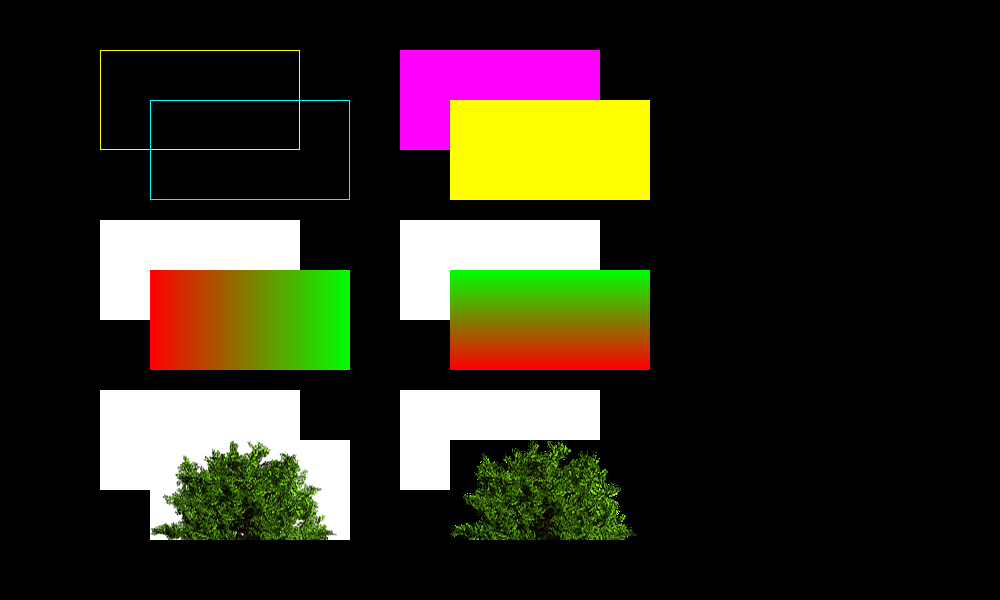
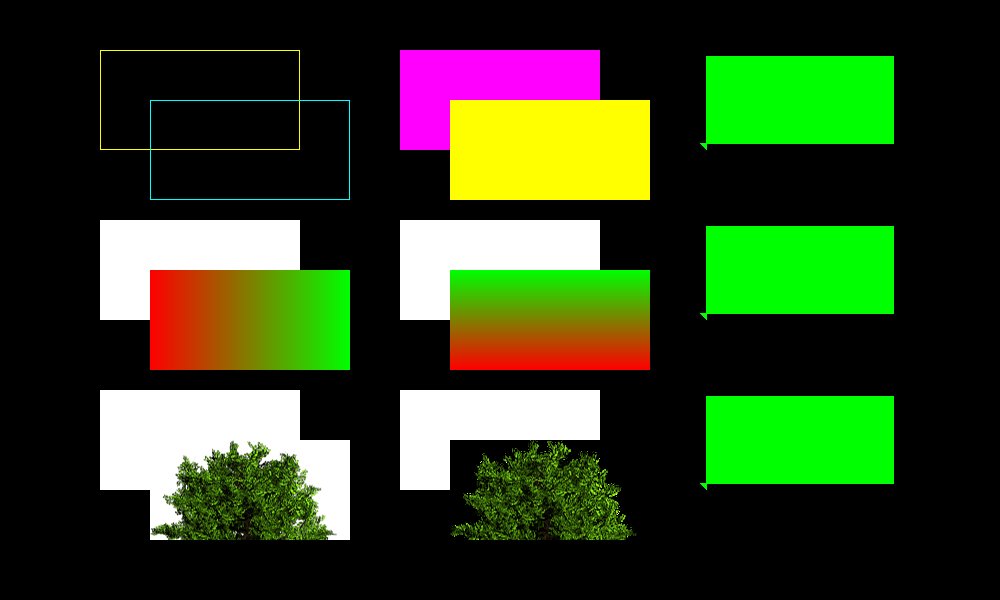
Working on thick rectangle outline

Changed region(s): [[0.682, 0.36, 0.899, 0.54], [0.682, 0.66, 0.899, 0.81], [0.682, 0.09, 0.899, 0.24]]

diff --git a/src/Pt-Gfx/ImagePainter2.cpp b/src/Pt-Gfx/ImagePainter2.cpp
@@ -289,17 +289,21 @@ void ImagePainter2::drawLine( const PointF& from, const PointF& to )
 
 void ImagePainter2::drawRect( const RectF& rect )
 {
-    // Copy the points
-    const Point tl( (Pt::int32_t) rect.topLeft    ().x(), (Pt::int32_t) rect.topLeft    ().y() );
-    const Point br( (Pt::int32_t) rect.bottomRight().x(), (Pt::int32_t) rect.bottomRight().y() );
-
-    // Rasterize the rectangle
+    // Rasterize one-pixel rectangle
     if(_rasterizer->pen().size() == 1) {
+        // Copy the points
+        const Point tl( (Pt::int32_t) rect.topLeft    ().x(), (Pt::int32_t) rect.topLeft    ().y() );
+        const Point br( (Pt::int32_t) rect.bottomRight().x(), (Pt::int32_t) rect.bottomRight().y() );
+        // Rasterize the rectangle
         _rasterizer->strokeOnePixelRect(tl, br);
         return;
     }
 
-    // TODO: Implement rectangle with thick lines and joins using polygon here!
+    // Generate a polygon that represents the rectangle
+    const PointF pointsF[4] = {
+        rect.bottomLeft(), rect.bottomRight(), rect.topRight(), rect.topLeft()
+    };
+    drawPolyline(pointsF, 4, true);
 }
 
 void ImagePainter2::fillRect( const RectF& rect )
@@ -693,10 +697,12 @@ bool ImagePainter2::thickenClosedPolygon(std::vector<PointF>& pointsF, const Poi
     }
 
     // Combine the polygon data
-    if(!pointsF.empty()) pointsF.push_back(Painter::PolygonSeparatorPointF);
-    pointsF.insert(pointsF.end(), pointsFOuter.begin(), pointsFOuter.end());
+    if(pointsFOuter.empty() || pointsFInner.empty()) return false;
 
     if(!pointsF.empty()) pointsF.push_back(Painter::PolygonSeparatorPointF);
+    //pointsF.insert(pointsF.end(), pointsFOuter.begin(), pointsFOuter.end());
+
+    //pointsF.push_back(Painter::PolygonSeparatorPointF);
     pointsF.insert(pointsF.end(), pointsFInner.begin(), pointsFInner.end());
 
     // Done

diff --git a/src/Pt-Gfx/tests/ImagePainterTest2_Draw_Outline.cpp b/src/Pt-Gfx/tests/ImagePainterTest2_Draw_Outline.cpp
@@ -241,6 +241,15 @@ static void testDrawRect(const char* title, Image& image, Painter& painter)
     painter.setBrush( Brush(textureWithTransBackground) );
     painter.fillRect( RectF(PointF(450, 440), SizeF(200, 100)) );
 
+    // Thick
+    painter.setPen  ( Pen(Color::fromRgb8(0, 255, 0, 175), 12, Pen::Solid, Pen::ButtCap, Pen::BevelJoin) );
+    painter.drawRect( RectF(PointF(700,  50), SizeF(200, 100)) );
+
+    painter.setPen  ( Pen(Color::fromRgb8(0, 255, 0, 175), 12, Pen::Solid, Pen::ButtCap, Pen::MiterJoin) );
+    painter.drawRect( RectF(PointF(700, 220), SizeF(200, 100)) );
+
+    painter.setPen  ( Pen(Color::fromRgb8(0, 255, 0, 175), 12, Pen::Solid, Pen::ButtCap, Pen::RoundJoin) );
+    painter.drawRect( RectF(PointF(700, 390), SizeF(200, 100)) );
 
     sdlPreviewRGB888Buffer(title, image.data(), image.width(), image.height(), !!dynamic_cast<ImagePainter2*>(&painter));
 }

diff --git a/src/Pt-Gfx/tests/ImagePainterTest2.cpp b/src/Pt-Gfx/tests/ImagePainterTest2.cpp
@@ -63,10 +63,10 @@ using namespace Pt::Gfx;
 
 #define TEST_DRAW_SOLID_LINE_AND_TEXT           0 // (including bezier)
 #define TEST_DRAW_PATTERNED_LINE                0 // (including bezier)
-#define TEST_DRAW_SOLID_THICK_LINE              1 // (including bezier)
+#define TEST_DRAW_SOLID_THICK_LINE              0 // (including bezier)
 #define TEST_DRAW_PATTERNED_THICK_LINE          0 // (including bezier)
 
-#define TEST_DRAW_RECTANGLES_FILLED_RECTANGLES  0
+#define TEST_DRAW_RECTANGLES_FILLED_RECTANGLES  1
 #define TEST_DRAW_ELLIPSES_ARCS                 0
 
 #define TEST_DRAW_SOLID_FILLED_POLYGONS         0
